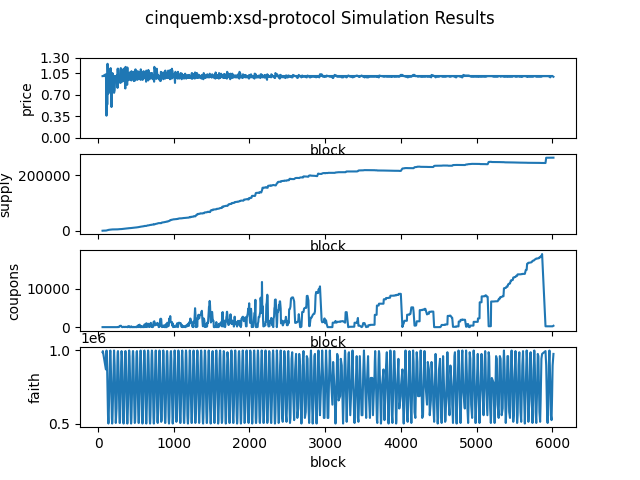
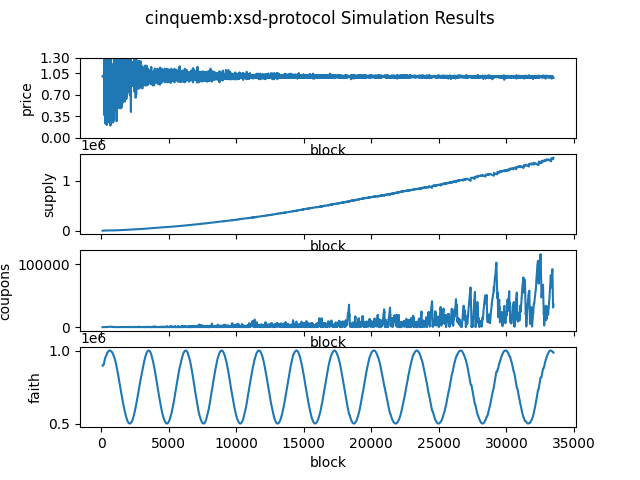
adding best current bidder autoredemption, back to 90% rejection

diff --git a/model/chain/model.py b/model/chain/model.py
@@ -667,7 +667,7 @@ class Agent:
         
         center_faith = (self.max_faith + self.min_faith) / 2
         swing_faith = (self.max_faith - self.min_faith) / 2
-        faith = center_faith + swing_faith * math.sin(current_timestamp * (2 * math.pi / 50000))
+        faith = center_faith + swing_faith * math.sin(current_timestamp * (2 * math.pi / 5000000))
         
         return faith
         
@@ -1018,7 +1018,7 @@ class Model:
         self.max_usdt = self.usdt_token.from_tokens(100000)
         self.bootstrap_epoch = 2
         self.max_coupon_exp = 131400
-        self.max_coupon_premium = 10
+        self.max_coupon_premium = 10.0
         self.min_usdt_balance = self.usdt_token.from_tokens(1)
         self.agent_coupons = {x: 0 for x in agents}
         self.has_prev_advanced = True
@@ -1053,7 +1053,7 @@ class Model:
 
         #sys.exit()
         
-    def log(self, stream, seleted_advancer, header=False):
+    def log(self, stream, seleted_advancer, current_timestamp, header=False):
         """
         Log model statistics a TSV line.
         If header is True, include a header.
@@ -1068,7 +1068,7 @@ class Model:
             self.pangolin.xsd_price(),
             self.dao.xsd_supply(),
             self.dao.total_coupons(),
-            self.get_overall_faith())
+            self.get_overall_faith(current_timestamp))
         )
        
     def get_overall_faith(self, current_timestamp):
@@ -1110,7 +1110,7 @@ class Model:
         else:
             self.has_prev_advanced = True
 
-        logger.info("Earliest Non Dead Auction: {}".format(self.dao.contract.caller({'from' : seleted_advancer.address, 'gas': 100000}).getEarliestDeadAuctionEpoch()))
+        logger.info("Earliest Active Auction: {}".format(self.dao.contract.caller({'from' : seleted_advancer.address, 'gas': 100000}).getEarliestActiveAuctionEpoch()))
         logger.info("Prospective Advance from {}, is_advance_fail: {}".format(seleted_advancer.address, is_advance_fail))
 
         (usdt_b, xsd_b) = self.pangolin.getTokenBalance()
@@ -1224,7 +1224,6 @@ class Model:
                 # What fraction of the total possible amount of doing this
                 # action will the agent do?
                 
-                
                 if action == "buy":
                     # this will limit the size of orders avaialble
                     (usdt_b, xsd_b) = self.pangolin.getTokenBalance()
@@ -1299,8 +1298,10 @@ class Model:
                     '''
                     xsd_at_risk = max(Balance.from_tokens(1, 18), portion_dedusted(a.xsd, commitment))
                     rand_epoch_expiry = int(random.random() * self.max_coupon_exp)
-                    #rand_max_coupons =  round(max(1.01, min(int(math.floor(random.random() * self.max_coupon_premium)) + 1, 10.0)) * xsd_at_risk)
-                    rand_max_coupons =  round(max(1.01, int(math.floor(self.max_coupon_premium))) * xsd_at_risk)
+                    rand_max_coupons =  round(max(1.01, min(random.random() * self.max_coupon_premium, self.max_coupon_premium)) * xsd_at_risk)
+
+                    #rand_max_coupons =  round(max(1.01, min(random.random() + 1.0, self.max_coupon_premium)) * xsd_at_risk)
+                    #rand_max_coupons =  round(max(1.01, int(math.floor(self.max_coupon_premium))) * xsd_at_risk)
 
 
                     if rand_max_coupons < xsd_at_risk:
@@ -1475,7 +1476,7 @@ def main():
     '''
 
     #logger.info("getTotalFilled at epoch 4: {}".format(dao.caller().getTotalFilled(10)))
-    earlies_active_epoch = dao.caller().getEarliestDeadAuctionEpoch()
+    earlies_active_epoch = dao.caller().getEarliestActiveAuctionEpoch()
     baddr = dao.caller().getBestBidderFromEarliestActiveAuctionEpoch(earlies_active_epoch)
     logger.info("getBestBidderFromEarliestActiveAuctionEpoch at epoch {}: {}".format(earlies_active_epoch, baddr))
     exp = dao.caller().getCouponsAssignedAtEpoch(baddr, 0)
@@ -1535,7 +1536,8 @@ def main():
         end_iter = time.time()
         logger.info('iter: %s, sys time %s' % (i, end_iter-start_iter))
         # Log system state
-        model.log(stream, seleted_advancer, header=(i == 0))
+        current_timestamp = w3.eth.get_block('latest')['timestamp']
+        model.log(stream, seleted_advancer, current_timestamp, header=(i == 0))
         
 if __name__ == "__main__":
     main()
